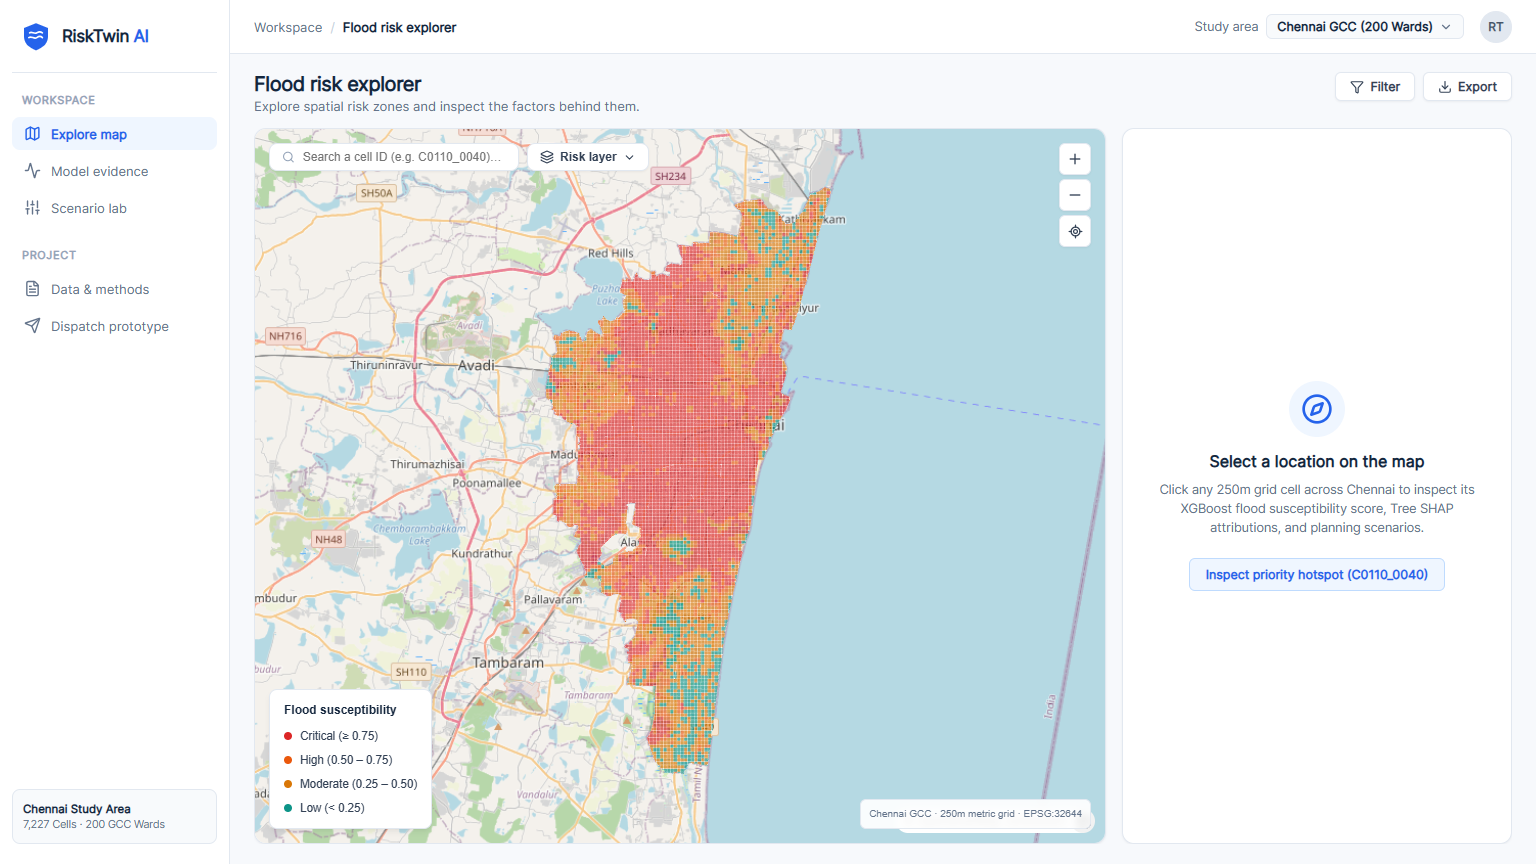
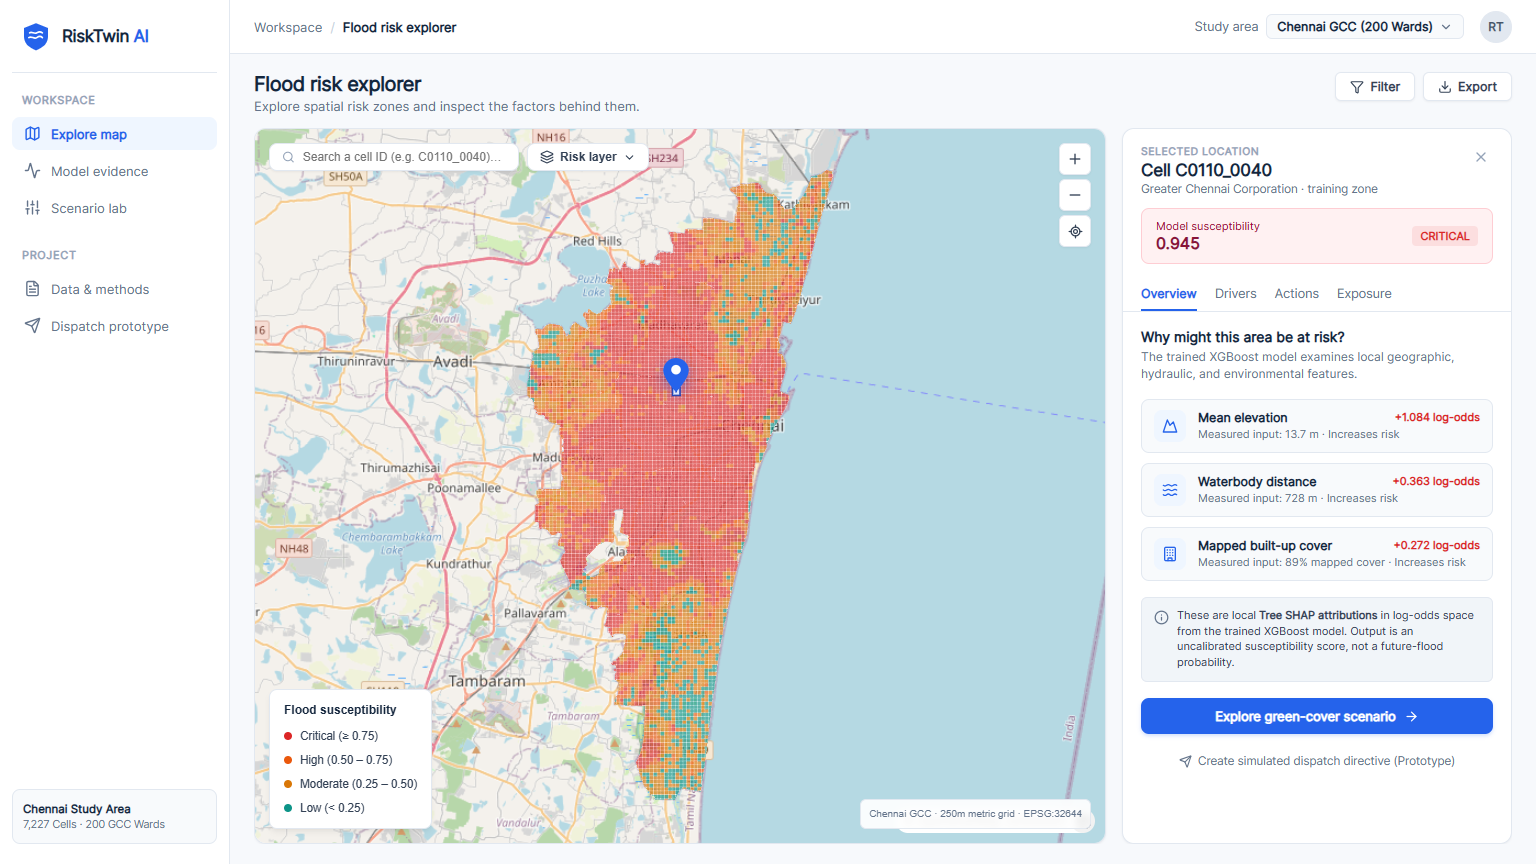
fix(map): tightly frame Chennai bounds, add prominent Image-1 location pin marker, and smooth neighborhood context panning

diff --git a/frontend/src/MapView.tsx b/frontend/src/MapView.tsx
@@ -70,9 +70,11 @@ interface HoverInfo {
   category: string
 }
 
-const CHENNAI_BOUNDS: [[number, number], [number, number]] = [
-  [80.11, 12.83],
-  [80.35, 13.25],
+// Exact bounding box of the 7,227 Chennai grid cells: [80.140, 12.852] to [80.331, 13.235]
+// Tight padding ensures the flood susceptibility layer prominently frames the viewport
+const CHENNAI_EXACT_BOUNDS: [[number, number], [number, number]] = [
+  [80.136, 12.847],
+  [80.335, 13.239],
 ]
 
 export default function MapView({
@@ -84,13 +86,18 @@ export default function MapView({
 }: Props) {
   const container = useRef<HTMLDivElement>(null)
   const mapRef = useRef<MapLibreMap | null>(null)
+  const markerRef = useRef<maplibregl.Marker | null>(null)
   const [hoverInfo, setHoverInfo] = useState<HoverInfo | null>(null)
   const [basemap, setBasemap] = useState<'street' | 'satellite'>('street')
   const [searchQuery, setSearchQuery] = useState('')
   const [layerDropdownOpen, setLayerDropdownOpen] = useState(false)
 
   const handleRecenter = useCallback(() => {
-    mapRef.current?.fitBounds(CHENNAI_BOUNDS, { padding: 40, duration: 600 })
+    mapRef.current?.fitBounds(CHENNAI_EXACT_BOUNDS, {
+      padding: { top: 35, bottom: 35, left: 25, right: 25 },
+      duration: 600,
+      maxZoom: 12.8,
+    })
   }, [])
 
   const handleZoomIn = useCallback(() => {
@@ -112,14 +119,57 @@ export default function MapView({
     }
   }
 
+  // Update or render the prominent vector Location Pin Marker matching Image 1
+  const updateMarker = useCallback((cellId: string | null) => {
+    const map = mapRef.current
+    if (!map) return
+
+    if (!cellId) {
+      if (markerRef.current) {
+        markerRef.current.remove()
+        markerRef.current = null
+      }
+      return
+    }
+
+    const feature = layer.features.find((f) => f.properties.cell_id === cellId)
+    if (!feature?.properties?.longitude || !feature?.properties?.latitude) {
+      if (markerRef.current) {
+        markerRef.current.remove()
+        markerRef.current = null
+      }
+      return
+    }
+
+    const coords: [number, number] = [feature.properties.longitude, feature.properties.latitude]
+
+    if (!markerRef.current) {
+      const el = document.createElement('div')
+      el.className = 'selected-location-pin-marker'
+      el.innerHTML = `
+        <div class="pin-marker-inner" title="Selected Location: ${cellId}">
+          <svg width="26" height="34" viewBox="0 0 24 32" fill="none" xmlns="http://www.w3.org/2000/svg">
+            <path d="M12 0C5.37258 0 0 5.37258 0 12C0 19.5 12 32 12 32C12 32 24 19.5 24 12C24 5.37258 18.6274 0 12 0Z" fill="#2563EB"/>
+            <circle cx="12" cy="11" r="4.5" fill="#FFFFFF"/>
+          </svg>
+        </div>
+      `
+      markerRef.current = new maplibregl.Marker({ element: el, anchor: 'bottom' })
+        .setLngLat(coords)
+        .addTo(map)
+    } else {
+      markerRef.current.setLngLat(coords)
+    }
+  }, [layer])
+
   // Initialize MapLibre
   useEffect(() => {
     if (!container.current) return
     const map = new maplibregl.Map({
       container: container.current,
       style: basemap === 'street' ? LIGHT_STREET_STYLE : SATELLITE_STYLE,
-      center: [80.24, 13.06],
-      zoom: 11.2,
+      center: [80.236, 13.044],
+      zoom: 11.8,
       minZoom: 9,
       maxZoom: 17,
       attributionControl: false,
@@ -168,28 +218,40 @@ export default function MapView({
         },
       })
 
-      // Selected Cell Outline Halo (Primary Blue #2563EB)
+      // Selected Cell Tint Fill (Translucent blue overlay)
+      map.addLayer({
+        id: 'selected-cell-fill-highlight',
+        type: 'fill',
+        source: 'susceptibility',
+        filter: ['==', ['get', 'cell_id'], selectedId ?? ''],
+        paint: {
+          'fill-color': '#2563EB',
+          'fill-opacity': 0.32,
+        },
+      })
+
+      // Selected Cell Outer Halo (Thick #1E40AF stroke)
       map.addLayer({
         id: 'selected-cell-halo',
         type: 'line',
         source: 'susceptibility',
-        filter: ['==', ['get', 'cell_id'], ''],
+        filter: ['==', ['get', 'cell_id'], selectedId ?? ''],
         paint: {
-          'line-color': '#2563EB',
-          'line-width': 4,
-          'line-opacity': 0.85,
+          'line-color': '#1E40AF',
+          'line-width': 5.5,
+          'line-opacity': 0.95,
         },
       })
 
-      // Selected Cell Inner Stroke
+      // Selected Cell Inner Crisp White Stroke
       map.addLayer({
         id: 'selected-cell',
         type: 'line',
         source: 'susceptibility',
-        filter: ['==', ['get', 'cell_id'], ''],
+        filter: ['==', ['get', 'cell_id'], selectedId ?? ''],
         paint: {
-          'line-color': '#ffffff',
-          'line-width': 2,
+          'line-color': '#FFFFFF',
+          'line-width': 2.2,
           'line-opacity': 1,
         },
       })
@@ -203,7 +265,8 @@ export default function MapView({
           if (feature?.properties?.longitude && feature?.properties?.latitude) {
             map.easeTo({
               center: [feature.properties.longitude, feature.properties.latitude],
-              duration: 400,
+              duration: 450,
+              zoom: Math.max(map.getZoom(), 12.8),
             })
           }
         }
@@ -229,35 +292,57 @@ export default function MapView({
         map.getCanvas().style.cursor = ''
       })
 
-      map.fitBounds(CHENNAI_BOUNDS, { padding: 36, duration: 0 })
+      // Immediately render location marker for initial selected cell
+      updateMarker(selectedId)
+
+      // Prominently frame the Chennai susceptibility study area
+      map.fitBounds(CHENNAI_EXACT_BOUNDS, {
+        padding: { top: 35, bottom: 35, left: 25, right: 25 },
+        duration: 0,
+        maxZoom: 12.8,
+      })
     })
 
     return () => {
+      if (markerRef.current) {
+        markerRef.current.remove()
+        markerRef.current = null
+      }
       map.remove()
       mapRef.current = null
     }
-  }, [basemap, layer, onSelect, showSusceptibilityGrid])
+  }, [basemap, layer, onSelect, showSusceptibilityGrid, updateMarker])
 
-  // Update selected cell highlight
+  // Update selected cell highlight and location pin marker dynamically
   useEffect(() => {
     const map = mapRef.current
-    if (map?.getLayer('selected-cell')) {
-      const filter: maplibregl.FilterSpecification = ['==', ['get', 'cell_id'], selectedId ?? '']
-      map.setFilter('selected-cell', filter)
-      map.setFilter('selected-cell-halo', filter)
+    if (!map) return
 
-      if (selectedId) {
-        const feature = layer.features.find((f) => f.properties.cell_id === selectedId)
-        if (feature?.properties?.longitude && feature?.properties?.latitude) {
-          map.easeTo({
-            center: [feature.properties.longitude, feature.properties.latitude],
-            duration: 500,
-            zoom: Math.max(map.getZoom(), 12.5),
-          })
-        }
+    const cellFilter: maplibregl.FilterSpecification = ['==', ['get', 'cell_id'], selectedId ?? '']
+
+    if (map.getLayer('selected-cell')) {
+      map.setFilter('selected-cell', cellFilter)
+    }
+    if (map.getLayer('selected-cell-halo')) {
+      map.setFilter('selected-cell-halo', cellFilter)
+    }
+    if (map.getLayer('selected-cell-fill-highlight')) {
+      map.setFilter('selected-cell-fill-highlight', cellFilter)
+    }
+
+    updateMarker(selectedId)
+
+    if (selectedId) {
+      const feature = layer.features.find((f) => f.properties.cell_id === selectedId)
+      if (feature?.properties?.longitude && feature?.properties?.latitude) {
+        map.easeTo({
+          center: [feature.properties.longitude, feature.properties.latitude],
+          duration: 450,
+          zoom: Math.max(map.getZoom(), 12.8),
+        })
       }
     }
-  }, [selectedId, layer])
+  }, [selectedId, layer, updateMarker])
 
   // Update Risk Filters (Critical, High, Moderate, Low)
   useEffect(() => {

diff --git a/frontend/src/styles.css b/frontend/src/styles.css
@@ -604,6 +604,40 @@ button {
   color: var(--primary-blue);
 }
 
+.map-tool-btn.map-tool-recenter:hover {
+  background: var(--primary-blue-light);
+  border-color: var(--primary-blue-border);
+  color: var(--primary-blue);
+}
+
+/* Selected Location Pin Marker matching Image 1 */
+.selected-location-pin-marker {
+  cursor: pointer;
+  pointer-events: none;
+  filter: drop-shadow(0 4px 8px rgba(37, 99, 235, 0.45));
+  transition: transform 0.25s cubic-bezier(0.16, 1, 0.3, 1);
+  transform-origin: bottom center;
+  z-index: 15;
+}
+
+.selected-location-pin-marker .pin-marker-inner {
+  display: flex;
+  align-items: center;
+  justify-content: center;
+  animation: markerDropIn 0.3s cubic-bezier(0.16, 1, 0.3, 1);
+}
+
+@keyframes markerDropIn {
+  0% {
+    transform: translateY(-12px) scale(0.8);
+    opacity: 0;
+  }
+  100% {
+    transform: translateY(0) scale(1);
+    opacity: 1;
+  }
+}
+
 /* Bottom Left Floating Legend matching Image 1 */
 .map-floating-legend {
   position: absolute;
